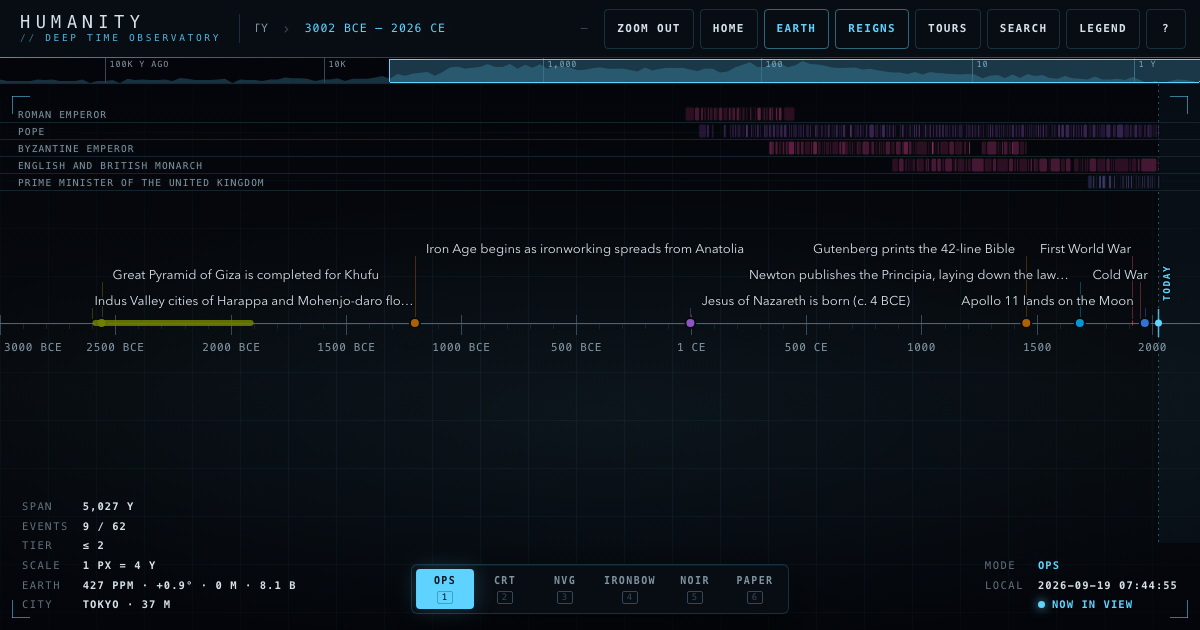
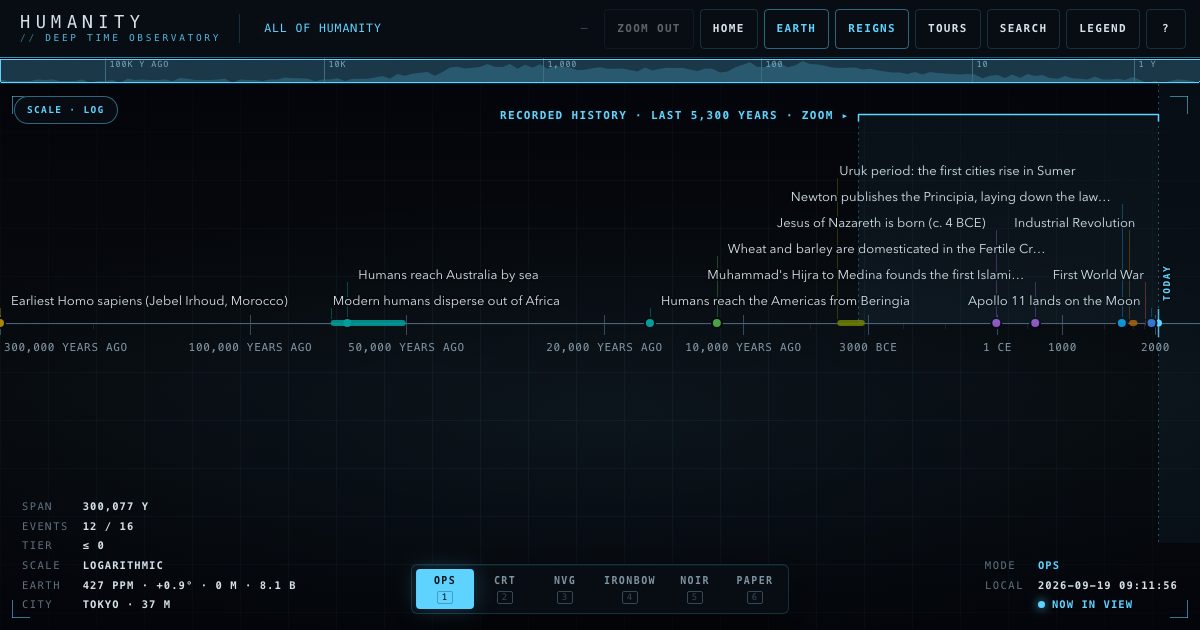
docs: README screenshot and link-preview image show the logarithmic opening view

diff --git a/index.html b/index.html
@@ -18,7 +18,7 @@
 <meta property="og:image" content="https://dshills.github.io/Humanity/docs/og.png">
 <meta property="og:image:width" content="1200">
 <meta property="og:image:height" content="630">
-<meta property="og:image:alt" content="A horizontal timeline from 3000 BCE to today with events, ruler swimlanes and an overview strip">
+<meta property="og:image:alt" content="A timeline of all 300,000 years of humanity on a logarithmic axis, from the earliest Homo sapiens to Apollo 11, with recorded history bracketed at the right">
 <meta name="twitter:card" content="summary_large_image">
 <style>
 /* ==========================================================================

diff --git a/src/index.template.html b/src/index.template.html
@@ -18,7 +18,7 @@
 <meta property="og:image" content="https://dshills.github.io/Humanity/docs/og.png">
 <meta property="og:image:width" content="1200">
 <meta property="og:image:height" content="630">
-<meta property="og:image:alt" content="A horizontal timeline from 3000 BCE to today with events, ruler swimlanes and an overview strip">
+<meta property="og:image:alt" content="A timeline of all 300,000 years of humanity on a logarithmic axis, from the earliest Homo sapiens to Apollo 11, with recorded history bracketed at the right">
 <meta name="twitter:card" content="summary_large_image">
 <style>
 <!--STYLES-->

diff --git a/README.md b/README.md
@@ -2,7 +2,7 @@
 
 **Live:** https://dshills.github.io/Humanity/
 
-![Today in history open over the years 1900 to today in NVG mode: a card headed 19 September in history lists that date's events from Wikipedia's on-this-day feed, newest first, from 2023 back through the decades, with one bundled launch among them and a footer counting 54 events; behind it are the ruler swimlanes, the events of the twentieth century, the Earth layer and the largest-city ribbon](docs/screenshot.png)
+![The opening view in NVG mode, all 300,000 years on a logarithmic axis: ticks run from 300,000, 100,000, 50,000, 20,000 and 10,000 years ago to 3000 BCE, 1 CE, 1000, 1500 and 2000; fifteen landmark events are labelled, from the earliest Homo sapiens to Apollo 11; the recorded-history bracket spans the right quarter of the stage up to the Today line; the Scale toggle sits at the top left, the overview strip under the header, and the climate and population curves below the axis](docs/screenshot.png)
 
 <p>
   <img src="docs/mode-ops.png" width="32%" alt="Ops mode: near-black console with cyan accent">
